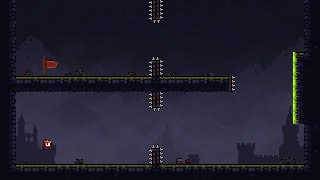
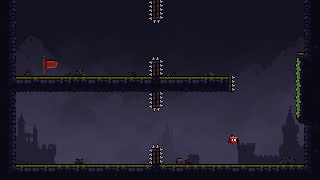
Tweak new hazard and sticky zone

Changed region(s): [[0.9062, 0.2778, 0.9375, 0.6944], [0.125, 0.7778, 0.1875, 0.8333], [0.7188, 0.75, 0.75, 0.8056]]

diff --git a/Assets/_Game/Scripts/Common/LevelDesign/ObjectAxisResizer.cs b/Assets/_Game/Scripts/Common/LevelDesign/ObjectAxisResizer.cs
@@ -1,0 +1,47 @@
+using UnityEditor;
+using UnityEngine;
+
+namespace Sling.Common.LevelDesign
+{
+  public class ObjectAxisResizer : MonoBehaviour
+  {
+    [Min(1)]
+    [SerializeField] private int _stepsCount = 1;
+    [SerializeField] private float _stepSize = 1;
+    [SerializeField] private bool _isVertical;
+    [SerializeField] private float _rendererSizeToAdd;
+
+    [Header("References")] 
+    [SerializeField] private BoxCollider2D _collider;
+    [SerializeField] private SpriteRenderer _renderer;
+
+#if UNITY_EDITOR
+    private void OnValidate()
+    {
+      EditorApplication.delayCall -= ApplySize;
+      EditorApplication.delayCall += ApplySize;
+    }
+
+    private void ApplySize()
+    {
+      EditorApplication.delayCall -= ApplySize;
+
+      float axisSize = _stepsCount * _stepSize;
+      
+      if (_renderer)
+      {
+        float rendererAxisSize = axisSize + _rendererSizeToAdd;
+        
+        _renderer.size = _isVertical
+          ? new Vector2(_renderer.size.x, rendererAxisSize)
+          : new Vector2(rendererAxisSize, _renderer.size.y);
+      }
+      
+      if(_collider)
+        _collider.size = _isVertical 
+          ? new Vector2(_collider.size.x, axisSize) 
+          : new Vector2(axisSize, _collider.size.y);    
+    }
+#endif
+  }
+}